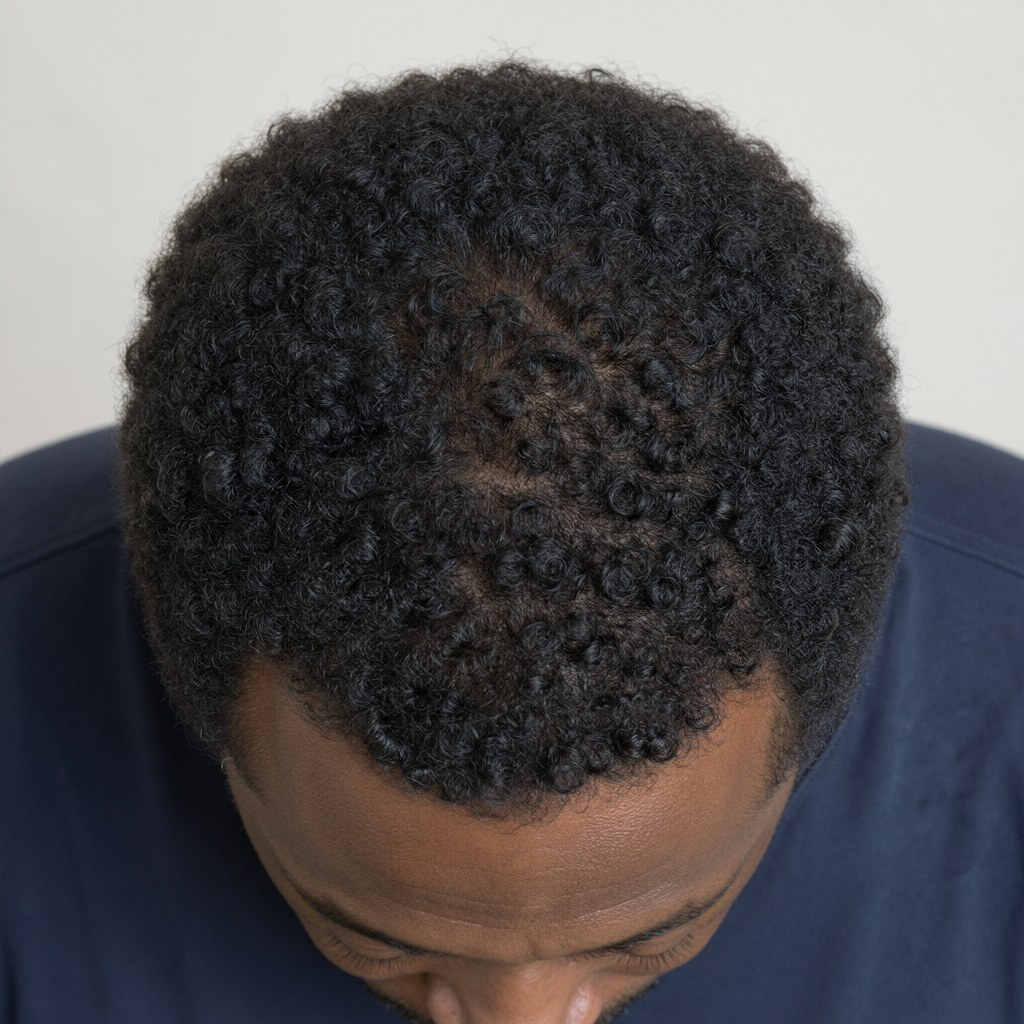
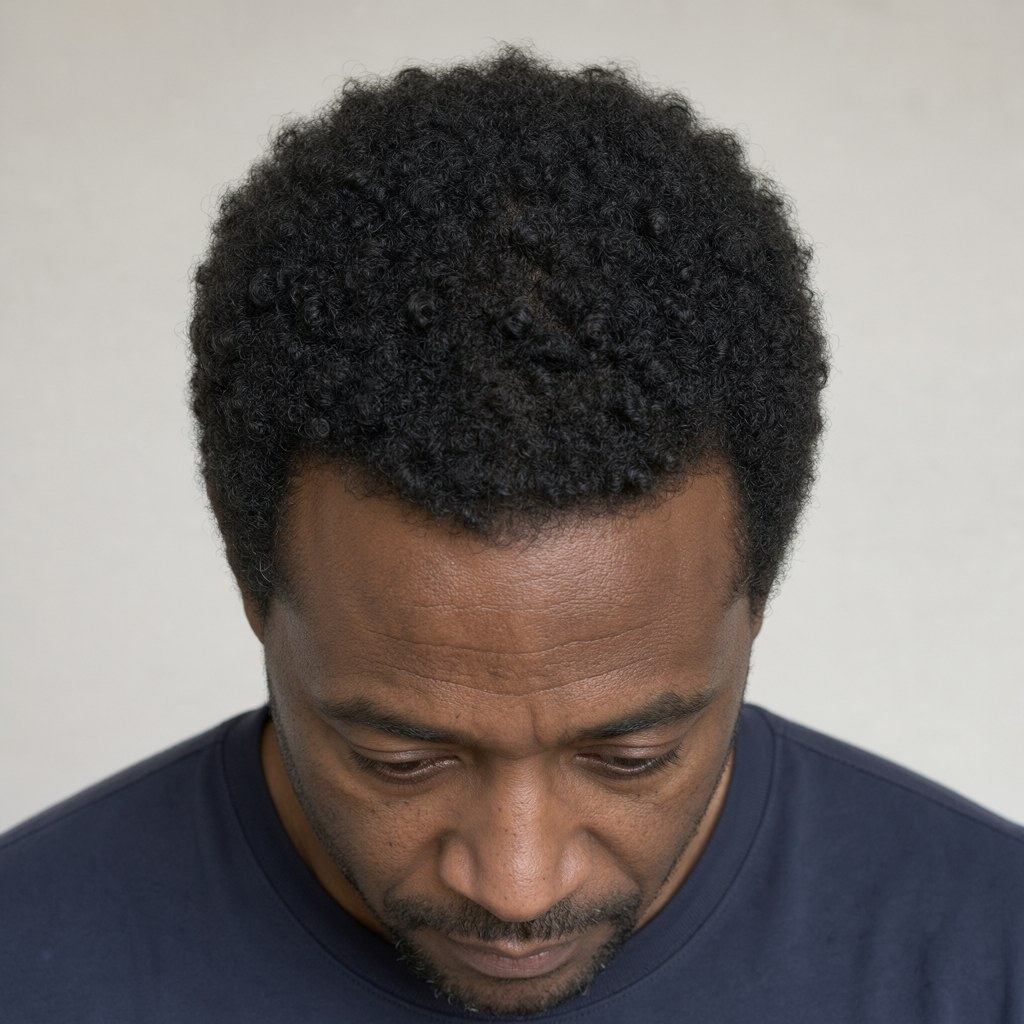
feat(hair): sample listing photos the same way, rejecting bands that read as background

diff --git a/apps/web/lib/server/sample.ts b/apps/web/lib/server/sample.ts
@@ -1,11 +1,15 @@
 import sharp from "sharp";
-import { hairRegion, hairShadeName, labToHex, rgbToLab, robustMedianLab, type Lab } from "@kept/likeness";
+import { deltaE00, hairRegion, hairShadeName, labToHex, rgbToLab, robustMedianLab, type Lab } from "@kept/likeness";
 import { parseFaceBoxes, type FaceBox, type YouCam } from "@kept/youcam";
 
 export type HairSample = { hex: string; name: string; pixels: number };
 
+/** A band that reads the same as the corners of the photo is background, not hair. */
+const BACKGROUND_DE00 = 12;
+
 /** Reads the hair colour above the forehead, given YouCam's face box for this image. */
-export async function sampleHairFromBox(bytes: Uint8Array, box: FaceBox): Promise<HairSample | null> {
+/** `checkBackground` rejects bands that read like the photo corners — on for shop photos, off for the person's own guided photo. */
+export async function sampleHairFromBox(bytes: Uint8Array, box: FaceBox, checkBackground = true): Promise<HairSample | null> {
   const { data, info } = await sharp(bytes).rotate().removeAlpha().raw().toBuffer({ resolveWithObject: true });
   const region = hairRegion(box, info.width, info.height);
   if (!region) return null;
@@ -18,17 +22,29 @@ export async function sampleHairFromBox(bytes: Uint8Array, box: FaceBox): Promis
     }
   }
   const median = robustMedianLab(px);
-  return median ? { hex: labToHex(median), name: hairShadeName(median), pixels: px.length } : null;
+  if (!median) return null;
+  const corner = (x0: number, y0: number) => {
+    const out: Lab[] = [];
+    const size = Math.max(4, Math.round(Math.min(info.width, info.height) * 0.05));
+    for (let y = y0; y < y0 + size; y++) for (let x = x0; x < x0 + size; x++) {
+      const i = (y * info.width + x) * info.channels;
+      out.push(rgbToLab(data[i]!, data[i + 1]!, data[i + 2]!));
+    }
+    return robustMedianLab(out);
+  };
+  const corners = [corner(0, 0), corner(info.width - Math.max(4, Math.round(Math.min(info.width, info.height) * 0.05)), 0)];
+  if (checkBackground && corners.some((c) => c && deltaE00(c, median) < BACKGROUND_DE00)) return null;
+  return { hex: labToHex(median), name: hairShadeName(median), pixels: px.length };
 }
 
 /** Finds the face with YouCam's free pre-process step, then samples the hair. */
-export async function sampleHair(yc: YouCam, bytes: Uint8Array, sessionId: string): Promise<(HairSample & { taskId: string }) | null> {
+export async function sampleHair(yc: YouCam, bytes: Uint8Array, sessionId: string, checkBackground = true): Promise<(HairSample & { taskId: string }) | null> {
   const jpeg = new Uint8Array(await sharp(bytes).rotate().jpeg({ quality: 92 }).toBuffer());
   const { fileId } = await yc.upload(jpeg, "image/jpeg", "sample.jpg");
   const pre = await yc.run("facePre", { src_file_id: fileId }, { sessionId });
   await yc.deleteTask(pre.taskId).catch(() => undefined);
   const box = parseFaceBoxes(pre.results)[0];
   if (!box) return null;
-  const s = await sampleHairFromBox(jpeg, box);
+  const s = await sampleHairFromBox(jpeg, box, checkBackground);
   return s ? { ...s, taskId: pre.taskId } : null;
 }

diff --git a/scripts/record/record.ts b/scripts/record/record.ts
@@ -8,6 +8,7 @@ import { createYouCam } from "@kept/youcam";
 import type { Likeness } from "@kept/likeness";
 import { captureLikeness, type CaptureEvent } from "../../apps/web/lib/server/capture.ts";
 import { calibrateBrows, renderHat, renderWig } from "../../apps/web/lib/server/tryon.ts";
+import { sampleHair } from "../../apps/web/lib/server/sample.ts";
 
 const [cmd, persona = "anna", ...rest] = process.argv.slice(2);
 const dir = new URL(`../../apps/web/fixtures/replay/${persona}/`, import.meta.url);
@@ -47,6 +48,29 @@ if (cmd === "capture") {
   save("brows", { recordedAt: at(), units: c.units, api: "makeup-vto", pattern: c.best.pattern, rounds: c.rounds, deltaE: c.best.deltaE, measuredHex: c.best.measuredHex, targetHex: brows.hex });
   save("verify-brows", { recordedAt: at(), measuredHex: c.best.measuredHex, deltaE: c.best.deltaE, units: 0, rounds: c.rounds });
   console.log("rounds", c.rounds, "units", c.units);
+} else if (cmd === "resample" || cmd === "density") {
+  // Patch an existing capture recording: hair shade from the sampler, or density from a new parting photo.
+  const file = new URL("capture.json", dir);
+  const cap = JSON.parse(readFileSync(file, "utf8")) as { recordedAt: string; events: CaptureEvent[]; patches?: string[] };
+  const done = cap.events.at(-1);
+  if (done?.type !== "done") throw new Error("capture first");
+  if (cmd === "resample") {
+    const s = await sampleHair(yc, photo("front"), "record", false);
+    if (!s) throw new Error("no face found");
+    done.likeness.hair.color = { value: { hex: s.hex, name: s.name }, prov: { api: "kept-hair-sampler", version: "1.0", taskId: s.taskId, units: 0, at: at(), source: "replay" } };
+    console.log("hair", s);
+  } else {
+    const { fileId } = await yc.upload(photo("top"), "image/jpeg", "top.jpg");
+    const r = await yc.run("hairDensity", { src_file_id: fileId });
+    await yc.deleteTask(r.taskId).catch(() => {});
+    const t = (r.results as { hair_density?: { mapping?: string; term?: string } }).hair_density;
+    if (!t?.term) throw new Error("no density");
+    done.likeness.hair.density = { value: { mapping: t.mapping ?? null, term: t.term }, prov: { api: "hair-density-detection", version: "v2.0", taskId: r.taskId, units: r.units, at: at(), source: "replay" } };
+    cap.events = cap.events.map((e) => (e.type === "step" && e.key === "hairDensity" ? { ...e, status: "done", units: r.units, detail: undefined } : e)).filter((e) => !(e.type === "retake" && e.key === "hairDensity"));
+    console.log("density", t);
+  }
+  cap.patches = [...(cap.patches ?? []), `${cmd} ${at()}`];
+  writeFileSync(file, JSON.stringify(cap, null, 1));
 } else if (cmd === "wig" || cmd === "hat") {
   const [listingId, imageUrl] = rest;
   if (!listingId || !imageUrl) throw new Error("listingId and imageUrl required");

diff --git a/apps/web/test/sample.test.ts b/apps/web/test/sample.test.ts
@@ -1,0 +1,28 @@
+import sharp from "sharp";
+import { describe, expect, it } from "vitest";
+import { sampleHairFromBox } from "../lib/server/sample";
+
+const box = { left: 0.3, top: 0.3, width: 0.4, height: 0.4 };
+
+async function frame(background: string, hair: string) {
+  const band = await sharp({ create: { width: 200, height: 70, channels: 3, background: hair } }).png().toBuffer();
+  return new Uint8Array(
+    await sharp({ create: { width: 400, height: 400, channels: 3, background } }).composite([{ input: band, top: 60, left: 100 }]).jpeg({ quality: 95 }).toBuffer(),
+  );
+}
+
+describe("sampleHairFromBox", () => {
+  it("reads the hair band above the face", async () => {
+    const s = await sampleHairFromBox(await frame("#e9e6e0", "#3a2418"), box);
+    expect(s?.name).toBe("Dark brown");
+  });
+
+  it("returns null when the band is the same as the background", async () => {
+    expect(await sampleHairFromBox(await frame("#e9e6e0", "#e9e6e0"), box)).toBeNull();
+  });
+
+  it("can skip the background check for a guided photo whose hair reaches the corners", async () => {
+    expect(await sampleHairFromBox(await frame("#3a2418", "#3a2418"), box)).toBeNull();
+    expect((await sampleHairFromBox(await frame("#3a2418", "#3a2418"), box, false))?.name).toBe("Dark brown");
+  });
+});

diff --git a/apps/web/lib/server/capture.ts b/apps/web/lib/server/capture.ts
@@ -76,7 +76,7 @@ export async function* captureLikeness(yc: YouCam, photos: CapturePhotos, opts: 
   }
   // YouCam's hair-colour attribute is a six-family classifier; for matching wigs Kept reads
   // the shade itself from the band of hair above the face YouCam found.
-  const hairSample = box ? await sampleHairFromBox(photos.front, box) : null;
+  const hairSample = box ? await sampleHairFromBox(photos.front, box, false) : null;
   const hairSampleAt = now();
   if (photos.top) ids.top = (await yc.upload(photos.top, "image/jpeg", "top.jpg")).fileId;
   if (photos.right && photos.left) {
